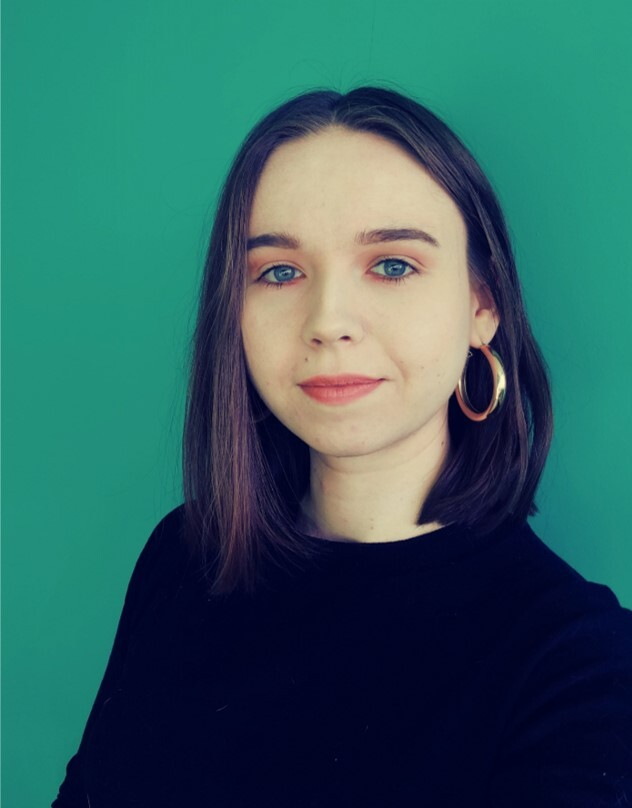
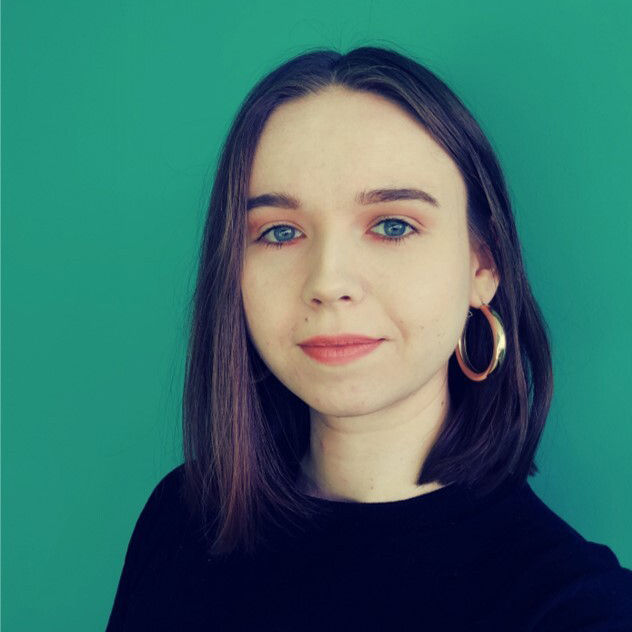
Minor changes

Changed region(s): [[0.0601, 0.0601, 1.0, 1.0], [0.5411, 0.2706, 0.6915, 0.3908]]

diff --git a/src/pages/About/AboutPage.js b/src/pages/About/AboutPage.js
@@ -1,14 +1,50 @@
 import React from "react";
 import IntroSection from "../../components/IntroSection/IntroSection";
-import ParagraphWithTitle from "../../components/ContentSection/ParagraphWithTitle";
 import TeamSection from "../../components/TeamSection/TeamSection";
+import Paragraph from "../../components/ContentSection/Paragraph";
+import SectionTitle from "../../components/ContentSection/SectionTitle";
+import { Row, Col, Card, CardTitle, CardText } from "reactstrap";
+import { useTranslation } from "react-i18next";
+import "./AboutPage.scss";
 
 const AboutPage = () => {
+  const { t } = useTranslation("common");
+
   return (
     <>
       <IntroSection content={"about"} />
-      <ParagraphWithTitle id="movement" content={"about.movement"}></ParagraphWithTitle>
-      <ParagraphWithTitle id="foundation" content={"about.foundation"}></ParagraphWithTitle>
+      <Row id="movement" className={`content-section justify-content-center`}>
+        <Col xs={6} className="content-section__column mx-auto">
+          <SectionTitle title={"about.movement"}></SectionTitle>
+          <Paragraph content={"about.movement.intro"}></Paragraph>
+          <div>
+            {t("about.movement.intro", { returnObjects: true }).map((element, index) => (
+              <div key={index}>
+                {element.subheading && <h5 className="content-section__subheading">{element.subheading}</h5>}
+                <p>{element.text}</p>
+              </div>
+            ))}
+          </div>
+          <div className="d-flex flex-wrap">
+            {t("about.movement.content", { returnObjects: true }).map((element, index) => (
+              <Card body key={index} className="about__card">
+                <CardTitle>
+                  {element.subheading && (
+                    <h5 className="content-section__subheading">{element.subheading}</h5>
+                  )}
+                </CardTitle>
+                <CardText className="text-center">{element.text}</CardText>
+              </Card>
+            ))}
+          </div>
+        </Col>
+      </Row>
+      <Row id="foundation" className="content-section justify-content-center content-section--grey">
+        <Col xs={6} className="content-section__column mx-auto">
+          <SectionTitle title="about.foundation"></SectionTitle>
+          <Paragraph content="about.foundation.content"></Paragraph>
+        </Col>
+      </Row>
       <TeamSection />
     </>
   );

diff --git a/src/components/TeamSection/Person.js b/src/components/TeamSection/Person.js
@@ -1,5 +1,5 @@
 import React from "react";
-import { Col, Row } from "reactstrap";
+import { Card, CardBody, CardImg, CardText, CardTitle, Col, Row } from "reactstrap";
 import { FontAwesomeIcon } from "@fortawesome/react-fontawesome";
 import { faLinkedin } from "@fortawesome/free-brands-svg-icons";
 import { faEnvelope } from "@fortawesome/free-solid-svg-icons";
@@ -7,11 +7,11 @@ import "./TeamSection.scss";
 
 const Person = ({ data }) => {
   return (
-    <Row className="team-section__member">
-      <Col>
-        <Row className="justify-content-center">
-          <img className="team-section__member-photo" src={data.photo} alt={`${data.name}`} />
-        </Row>
+    <Card className="team-section__member">
+      <CardImg className="team-section__member-photo" src={data.photo} alt={`${data.name}`} />
+      <CardBody>
+        <CardTitle>{data.name}</CardTitle>
+        <CardText>{data.desc}</CardText>
         <Row className="justify-content-center">
           <a href={data.linkedIn}>
             <FontAwesomeIcon icon={faLinkedin} className="fa-3x" />
@@ -20,12 +20,8 @@ const Person = ({ data }) => {
             <FontAwesomeIcon icon={faEnvelope} className="fa-3x" />
           </a>
         </Row>
-      </Col>
-      <Col xs={9}>
-        <h1>{data.name}</h1>
-        <p>{data.desc}</p>
-      </Col>
-    </Row>
+      </CardBody>
+    </Card>
   );
 };
 

diff --git a/src/components/TeamSection/TeamSection.js b/src/components/TeamSection/TeamSection.js
@@ -63,14 +63,14 @@ const teamMembers = [
 
 const TeamSection = () => {
   return (
-    <Row id="team" className={`team-section mx-auto justify-content-center`}>
-      <Col xs={9}>
+    <Row id="team" className={`team-section justify-content-center`}>
+      <Col xs={9} className="mx-auto">
         <SectionTitle title="about.team" />
-        <ul>
+        <div className="d-flex flex-wrap justify-content-around">
           {teamMembers.map((member) => (
             <Person key={member.name} data={member} />
           ))}
-        </ul>
+        </div>
         <h5 className="content-section__subheading">Pracowali z nami</h5>
         <ul>
           <li>Karolina Sarek</li>

diff --git a/src/components/TeamSection/TeamSection.scss b/src/components/TeamSection/TeamSection.scss
@@ -1,16 +1,17 @@
 .team-section {
+  padding: 3em 0;
   &__member {
-    border: 3px solid black;
+    border: 2px solid black;
     padding: 2em 0;
-    -webkit-box-shadow: 5px 5px 0px 0px rgba(125, 125, 125, 1);
-    -moz-box-shadow: 5px 5px 0px 0px rgba(125, 125, 125, 1);
-    box-shadow: 5px 5px 0px 0px rgba(125, 125, 125, 1);
     margin-bottom: 1em;
+    width: 30%;
+
     a {
       margin: 0.5em;
     }
-    &-photo {
+    &-photo.card-img {
       width: 15vw;
+      margin: auto;
     }
   }
   ul {

diff --git a/src/components/ContentSection/Paragraph.js b/src/components/ContentSection/Paragraph.js
@@ -6,7 +6,7 @@ const Paragraph = ({ content }) => {
 
   return (
     <div>
-      {t(`${content}.content`, { returnObjects: true }).map((element, index) => (
+      {t(`${content}`, { returnObjects: true }).map((element, index) => (
         <div key={index}>
           {element.subheading && <h5 className="content-section__subheading">{element.subheading}</h5>}
           <p>{element.text}</p>

diff --git a/src/components/ContentSection/ContentSection.scss b/src/components/ContentSection/ContentSection.scss
@@ -1,5 +1,5 @@
 .content-section {
-  padding-bottom: 2em;
+  padding: 3em 0;
   text-align: left;
   &__heading {
     font-family: Raleway, sans-serif;
@@ -14,5 +14,8 @@
     font-size: 25px;
     text-align: center;
     margin: 1em 0;
+  }
+  &--grey {
+    background-color: #f4f4f4;
   }
 }

diff --git a/src/pages/About/AboutPage.scss b/src/pages/About/AboutPage.scss
@@ -1,0 +1,13 @@
+.about {
+  &__card.card {
+    width: 45%;
+    margin: 0.5em;
+    background-color: #0b879d;
+    border-radius: 0%;
+    -webkit-border-radius: 0%;
+    -moz-border-radius: 0%;
+    -ms-border-radius: 0%;
+    -o-border-radius: 0%;
+    color: white;
+  }
+}
